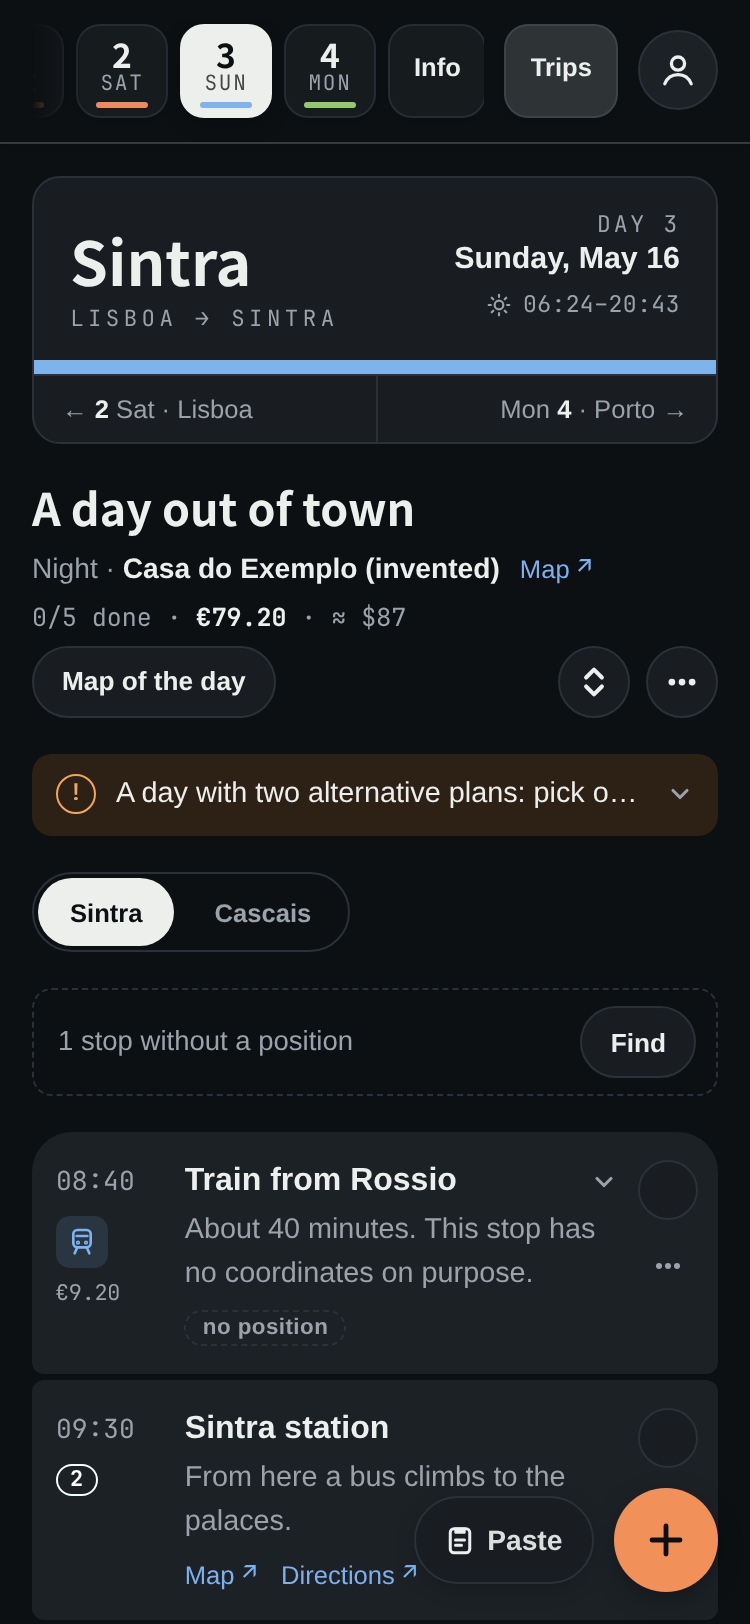
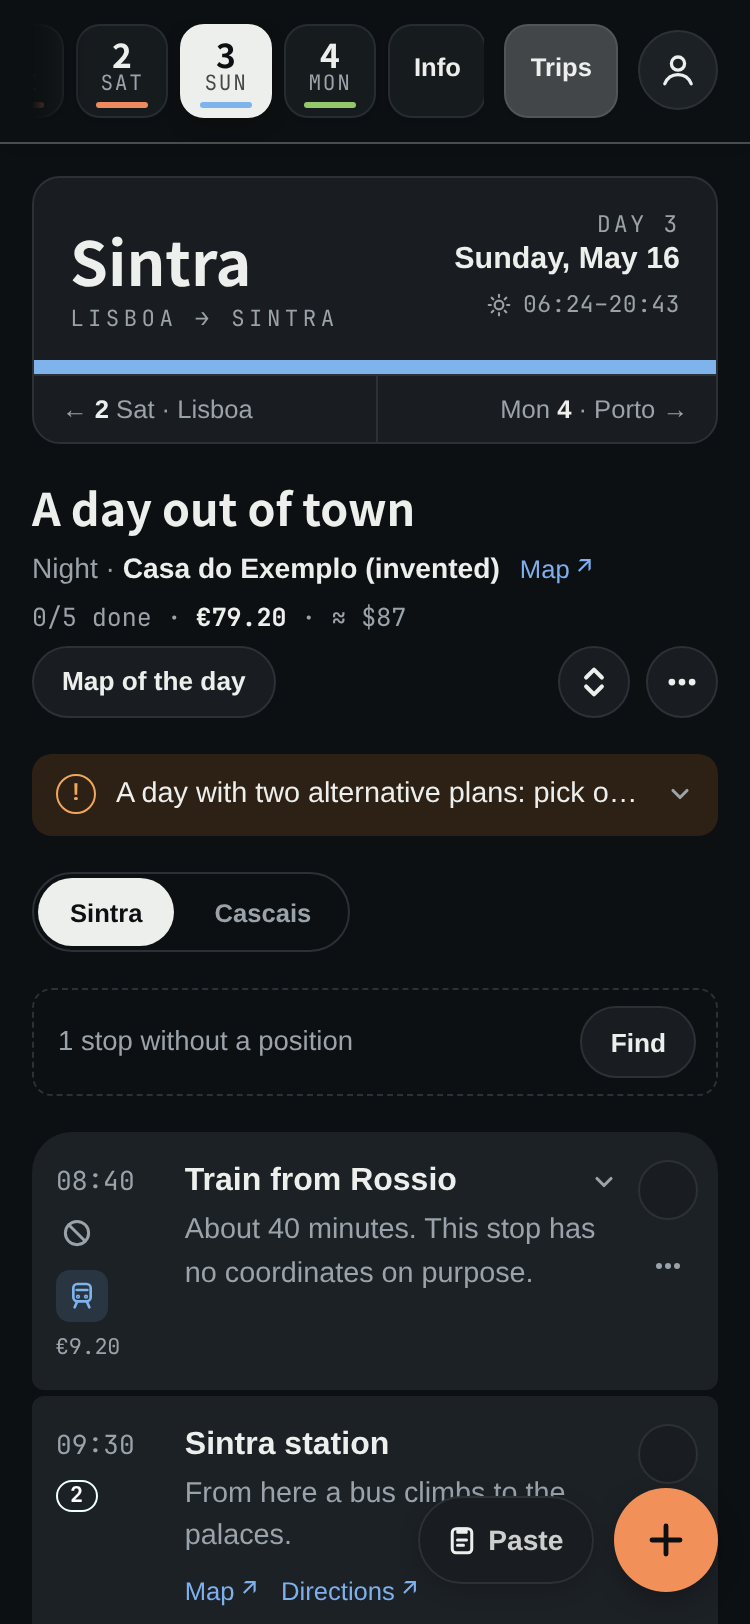
3.32.2: a crossed sign for a stop without a position, where its number would be; the search no longer jumps
The sign replaces the "no position" label; a tap finds that stop's position. The rows
of the search have their final size from the start, and only the one that changes is
drawn again. README pictures taken again.

diff --git a/js/app.js b/js/app.js
@@ -34,6 +34,8 @@ import { asBase } from "./publish.js";
 import { syncTrip, syncPrivate } from "./sync.js";
 import { openSignUp, openLinkedApps, openDevices, openRecover, accountError, recently } from "./account.js";
 
+// Where the number of a stop with a position is: a sign, crossed, for one without.
+const NO_POS = '<svg viewBox="0 0 16 16" fill="none" aria-hidden="true"><circle cx="8" cy="8" r="6.2" stroke="currentColor" stroke-width="1.6"/><path d="M3.6 3.6l8.8 8.8" stroke="currentColor" stroke-width="1.6" stroke-linecap="round"/></svg>';
 const CHEVRON = '<svg viewBox="0 0 16 16" fill="none" aria-hidden="true"><path d="M4 6l4 4 4-4" stroke="currentColor" stroke-width="1.8" stroke-linecap="round" stroke-linejoin="round"/></svg>';
 const UNFOLD = '<svg viewBox="0 0 16 16" fill="none" aria-hidden="true"><path d="M4.5 6L8 2.5 11.5 6M4.5 10L8 13.5 11.5 10" stroke="currentColor" stroke-width="1.8" stroke-linecap="round" stroke-linejoin="round"/></svg>';
 const FOLD = '<svg viewBox="0 0 16 16" fill="none" aria-hidden="true"><path d="M4.5 2.5L8 6l3.5-3.5M4.5 13.5L8 10l3.5 3.5" stroke="currentColor" stroke-width="1.8" stroke-linecap="round" stroke-linejoin="round"/></svg>';
@@ -528,13 +530,14 @@ function editDay(){
 }
 
 // The stops of the open day without a position, found all at once (js/positions.js),
-// checked, and the ticked ones saved as one version. Once some are saved, the line
-// that says what is left goes below the stops.
-async function findPositions(){
+// checked, and the ticked ones saved as one version; `only`: one stop's (its sign, where
+// its number would be). Once some are saved, the line that says what is left goes below
+// the stops.
+async function findPositions(only = null){
   if(!editable()) return;
   const here = currentPlace(), d = trip().days[here.dayIndex];
   const listIn = t => { const x = t.days.find(y => y.date === d.date); return !x ? [] : here.planId ? ((x.plans || []).find(p => p.id === here.planId) || {stops: []}).stops : x.stops || []; };
-  const list = listIn(trip()), missing = list.filter(s => s.lat === undefined && s.id);
+  const list = listIn(trip()), missing = list.filter(s => s.lat === undefined && s.id && (!only || s.id === only));
   if(!missing.length) return;
   if(navigator.onLine === false){ toast(t("posFindOffline")); return; }
   const around = list.filter(s => s.lat !== undefined);
@@ -1995,7 +1998,8 @@ function stopsHTML(day, planId, list, parts, paint, all = list){
     // The cost, small, under them: in the currency it is paid in.
     const paid = atStop(privOf(), day.date, s.id);
     const hasCost = typeof s.cost === "number" || paid.length > 0;
-    const left = `<div class="time"><span>${esc(s.time || "")}${dark}</span>${s.lat !== undefined && i >= 0 ? `<span class="nb" data-pin="${i}" style="--pf:${paint.stop(s.type, i)}">${i + 1}</span>` : ""}${chip("travel", s.travel)}${hasCost ? `<span class="cost">${esc(costShort(s, paid))}</span>` : ""}</div>`;
+    const left = `<div class="time"><span>${esc(s.time || "")}${dark}</span>${s.lat !== undefined && i >= 0 ? `<span class="nb" data-pin="${i}" style="--pf:${paint.stop(s.type, i)}">${i + 1}</span>`
+      : s.lat === undefined && change && s.id ? `<button type="button" class="nopos-sign" data-find-pos="${esc(s.id)}" aria-label="${esc(t("noPosFind", {s: s.title}))}" title="${esc(t("noPosTag"))}">${NO_POS}</button>` : ""}${chip("travel", s.travel)}${hasCost ? `<span class="cost">${esc(costShort(s, paid))}</span>` : ""}</div>`;
     // Middle: a label above the title, the title with its kind, the description that folds, the links.
     // The name as on the sign, under the title, in its own language (for the glyphs).
     const lang = s.local ? localLang(s.local, regionOf(s, trip().timezone)) : "";
@@ -2017,11 +2021,10 @@ function stopsHTML(day, planId, list, parts, paint, all = list){
       (q ? `<a class="maplink" href="${esc(dirUrl(q, comingFrom(dayIndex, list, i >= 0 ? i : opt.slot, skippedAt)))}" target="_blank" rel="noopener">${esc(t("routeLink"))}</a>` : "") +
       (review ? `<a class="maplink" href="${esc(review.url)}" target="_blank" rel="noopener" aria-label="${esc(t("reviewsOn", {s: review.site}))}">${esc(review.site)}</a>` : "");
     const booked = s.booking === "booked" ? `<span class="tag ok">${esc(t("booked"))}</span>` : "";
-    const nopos = s.lat === undefined && change ? `<span class="tag nopos-tag">${esc(t("noPosTag"))}</span>` : "";
     // In an opened group: the chosen one says so, the others can be chosen.
     const pick = opt.option ? `<button type="button" class="btn small" data-choose="${esc(s.id)}"${change ? "" : ` aria-disabled="true"`}>${esc(t("altChooseThis"))}</button>`
       : opt.chosen ? `<span class="tag ok">${esc(t("altChosen"))}</span>` : "";
-    const meta = isSkipped || links || booked || nopos || pick ? `<div class="meta">${pick}${isSkipped ? `<span class="tag off">${esc(t("skipped"))}</span>` : ""}${booked}${links}${nopos}</div>` : "";
+    const meta = isSkipped || links || booked || pick ? `<div class="meta">${pick}${isSkipped ? `<span class="tag off">${esc(t("skipped"))}</span>` : ""}${booked}${links}</div>` : "";
     const eyebrow = s.tag ? `<span class="eyebrow">${esc(s.tag)}</span>` : "";
     // Right: the tick, and the ⋯ menu with the actions used less often.
     const menuOpen = S.menuFor === id;
@@ -2394,7 +2397,8 @@ $app.addEventListener("click", e => {
     refocus("[data-notes]");
     return;
   }
-  if(e.target.closest("[data-find-pos]")){ findPositions(); return; }
+  const findPos = e.target.closest("[data-find-pos]");
+  if(findPos){ findPositions(findPos.dataset.findPos || null); return; }
   if(e.target.closest("[data-map]")){
     S.ui.mapOpen = !S.ui.mapOpen;
     saveUi();

diff --git a/js/positions.js b/js/positions.js
@@ -60,7 +60,7 @@ export function openFindPositions(o){
       <button type="button" class="iconbtn" data-close aria-label="${esc(t("close"))}">×</button>
     </div>
     <p class="foot">${esc(t("posFindHelp"))}</p>
-    <div class="founds" data-founds aria-busy="true">${o.stops.map(s => `<div class="found wait" data-row="${esc(s.id)}"><span class="what"><b>${esc(s.title)}</b><small>…</small></span></div>`).join("")}</div>
+    <div class="founds" data-founds aria-busy="true">${o.stops.map(s => `<div class="found wait" data-row="${esc(s.id)}"><label><span class="tickph" aria-hidden="true"></span><span class="what"><b>${esc(s.title)}</b><small>${esc(t("posSearching"))}</small><small>&nbsp;</small></span></label></div>`).join("")}</div>
     <div class="sheet-actions">
       <button type="button" class="btn" data-close>${esc(t("notNow"))}</button>
       <button type="button" class="btn primary" data-save disabled>${esc(t("posSave"))}</button>
@@ -79,7 +79,15 @@ export function openFindPositions(o){
     b.textContent = !done ? t("posSave") : t(!n ? "posLeave" : n === 1 ? "posSaveOne" : "posSaveN", {n});
     b.disabled = !done;
   };
-  // Every row drawn again once a result arrives: the distances depend on all of them.
+  // Every row looked at again once a result arrives (the distances depend on all of
+  // them), but changed only when what it shows changes: no flicker, no jump.
+  const shown = new Map();
+  const put = (row, cls, html) => {
+    if(shown.get(row) === cls + html) return;
+    shown.set(row, cls + html);
+    row.className = cls;
+    row.innerHTML = html;
+  };
   const draw = () => {
     // A tick the traveller changed stays; the others follow how far the result is.
     const far = distances(results, o.around), was = new Set(ticked());
@@ -87,15 +95,13 @@ export function openFindPositions(o){
       const row = dlg.querySelector(`[data-row="${CSS.escape(r.id)}"]`);
       const s = o.stops.find(x => x.id === r.id);
       if(!r.hit){
-        row.className = "found none";
-        row.innerHTML = `<span class="what"><b>${esc(s.title)}</b><small>${esc(t("posNoneFound"))}</small></span><button type="button" class="btn small" data-open-stop="${esc(r.id)}">${esc(t("posOpen"))}</button>`;
+        put(row, "found none", `<span class="what"><b>${esc(s.title)}</b><small>${esc(t("posNoneFound"))}</small></span><button type="button" class="btn small" data-open-stop="${esc(r.id)}">${esc(t("posOpen"))}</button>`);
         continue;
       }
       const f = far.get(r.id), on = touched.has(r.id) ? was.has(r.id) : !(f && f.far);
       const where = [r.hit.type ? t("type_" + r.hit.type) : "", f ? t(f.far ? "posFar" : "posNear", {d: fmt(f.km)}) : ""].filter(Boolean).join(" · ");
-      row.className = "found" + (f && f.far ? " far" : "");
-      row.innerHTML = `<label><input type="checkbox" data-found="${esc(r.id)}"${on ? " checked" : ""}><span class="what"><b>${esc(s.title)}</b>${r.hit.label ? `<small>${esc(r.hit.label)}</small>` : ""}${where ? `<small class="dist">${esc(where)}</small>` : ""}</span></label>` +
-        `<a class="maplink" href="${esc(mapsUrl(r.hit.lat + "," + r.hit.lng))}" target="_blank" rel="noopener">${esc(t("posVerify"))}</a>`;
+      put(row, "found" + (f && f.far ? " far" : ""), `<label><input type="checkbox" data-found="${esc(r.id)}"${on ? " checked" : ""}><span class="what"><b>${esc(s.title)}</b>${r.hit.label ? `<small>${esc(r.hit.label)}</small>` : ""}${where ? `<small class="dist">${esc(where)}</small>` : ""}</span></label>` +
+        `<a class="maplink" href="${esc(mapsUrl(r.hit.lat + "," + r.hit.lng))}" target="_blank" rel="noopener">${esc(t("posVerify"))}</a>`);
     }
     count();
   };

diff --git a/js/i18n.js b/js/i18n.js
@@ -322,7 +322,7 @@ export const STRINGS = {
     posMissing: "{n} stops without a position", posMissingOne: "1 stop without a position",
     posStill: "{n} stops still without a position", posStillOne: "1 stop still without a position",
     posFind: "Find", posFindOffline: "Finding positions needs the internet: try again when you are online.",
-    posFinding: "Finding positions… {a} of {b}", posFound: "Positions found", noPosTag: "no position",
+    posFinding: "Finding positions… {a} of {b}", posFound: "Positions found", noPosTag: "no position", noPosFind: "{s}: no position. Find it",
     posFindHelp: "Check the ones you do not know with Verify: Google Maps opens on the point found. Untick the wrong ones.",
     posNoneFound: "Not found: open it to search by hand.", posOpen: "Open", posVerify: "Verify", notNow: "Not now",
     posNear: "{d} km from the other stops", posFar: "{d} km from the other stops: probably another place",
@@ -663,7 +663,7 @@ export const STRINGS = {
     posMissing: "{n} tappe senza posizione", posMissingOne: "1 tappa senza posizione",
     posStill: "{n} tappe ancora senza posizione", posStillOne: "1 tappa ancora senza posizione",
     posFind: "Cerca", posFindOffline: "Per cercare le posizioni serve la rete: riprova quando sei online.",
-    posFinding: "Cerco le posizioni… {a} di {b}", posFound: "Posizioni trovate", noPosTag: "senza posizione",
+    posFinding: "Cerco le posizioni… {a} di {b}", posFound: "Posizioni trovate", noPosTag: "senza posizione", noPosFind: "{s}: senza posizione. Cercala",
     posFindHelp: "Controlla quelle che non conosci con Verifica: si apre Google Maps sul punto trovato. Togli la spunta a quelle sbagliate.",
     posNoneFound: "Non trovata: aprila per cercarla a mano.", posOpen: "Apri", posVerify: "Verifica", notNow: "Non ora",
     posNear: "a {d} km dalle altre tappe", posFar: "a {d} km dalle altre tappe: probabilmente un'altra",

diff --git a/css/app.css b/css/app.css
@@ -129,7 +129,10 @@ h1{font:700 1.4rem/1.25 var(--f-display);margin:0;text-wrap:balance}
    some were found. */
 .nopos{display:flex;align-items:center;justify-content:space-between;gap:10px;border:1.5px dashed var(--line);border-radius:10px;padding:8px 10px 8px 12px;color:var(--muted);font-size:.86rem}
 .nopos.later{margin-top:6px}
-.tag.nopos-tag{background:none;border:1px dashed var(--line);color:var(--muted)}
+/* A stop without a position: a crossed sign where its number would be; a tap finds it. */
+.nopos-sign{display:inline-grid;place-items:center;width:28px;height:22px;margin:-2px 0 0 -4px;padding:0;border:0;background:none;color:var(--muted);cursor:pointer;border-radius:999px}
+.nopos-sign svg{width:15px;height:15px;display:block}
+.nopos-sign:focus-visible{outline:2px solid var(--link);outline-offset:1px}
 .founds{display:grid;gap:8px}
 .found{display:grid;grid-template-columns:minmax(0,1fr) auto;align-items:start;gap:10px;border:1px solid var(--line);border-radius:10px;padding:10px;min-width:0}
 .sheet .found label{display:flex;gap:10px;align-items:flex-start;min-width:0;font-weight:400;font-size:.92rem}
@@ -141,7 +144,9 @@ h1{font:700 1.4rem/1.25 var(--f-display);margin:0;text-wrap:balance}
 .found .what small{color:var(--muted);font-size:.8rem;overflow-wrap:anywhere}
 .found.far .dist{color:var(--warn)}
 .found.none{border-style:dashed}
+.found{min-height:104px}
 .found.wait .what small{color:var(--muted)}
+.found .tickph{width:20px;height:20px;flex:none;margin-top:1px;border:1.5px dashed var(--line);border-radius:5px}
 .found .maplink{flex:0 0 auto}
 
 /* segmented control */

diff --git a/docs/using-the-app.md b/docs/using-the-app.md
@@ -38,7 +38,8 @@ day after the last. The day's notes are one line at the top ("3 notes · …"): 
 them all, another closes them; the app remembers which, for each trip.
 
 **Stops without a position** (an AI assistant often leaves them out) have no pin and no
-route. A line above the stops says how many, with **Find**: the app looks for all of
+route: a crossed sign where their number would be (a tap finds that one). A line above
+the stops says how many, with **Find**: the app looks for all of
 them, one after the other, the way the stop form does, and shows what it found before
 saving anything: the place in the search's own words, what kind of place it is, how far
 it is from the other stops, and **Verify**, which opens Google Maps on the point found. A

diff --git a/CHANGELOG.md b/CHANGELOG.md
@@ -4,6 +4,13 @@ Versions follow [Semantic Versioning](https://semver.org/). The trip file format
 its own version: `travel-in-my-pocket/2` since 3.0. Files in `travel-in-my-pocket/1`
 (1.0 to 2.4) still load: the app converts them.
 
+## 3.32.2
+
+- **A stop without a position** has a crossed sign where its number would be, instead of
+  the "no position" label: a tap finds its position (that stop only).
+- **The search for positions** no longer jumps while it searches: the rows have their
+  final size from the start, and only the one that changes is drawn again.
+
 ## 3.32.1
 
 - **A phone that had the app of before when its shared trip was converted** (3.30.0)
